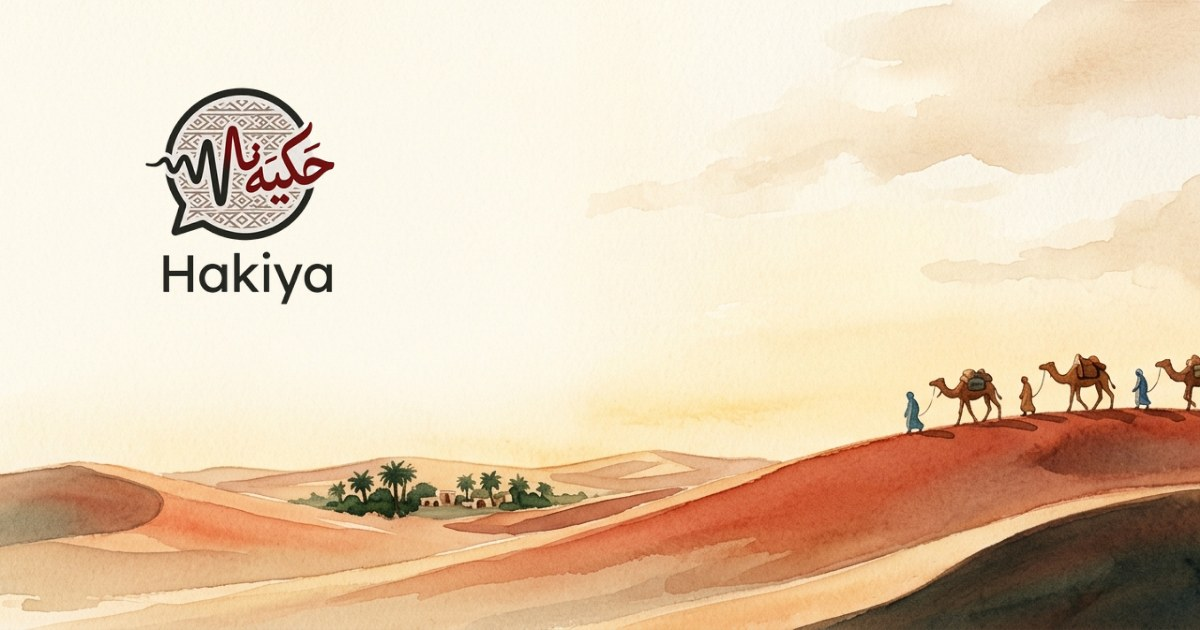
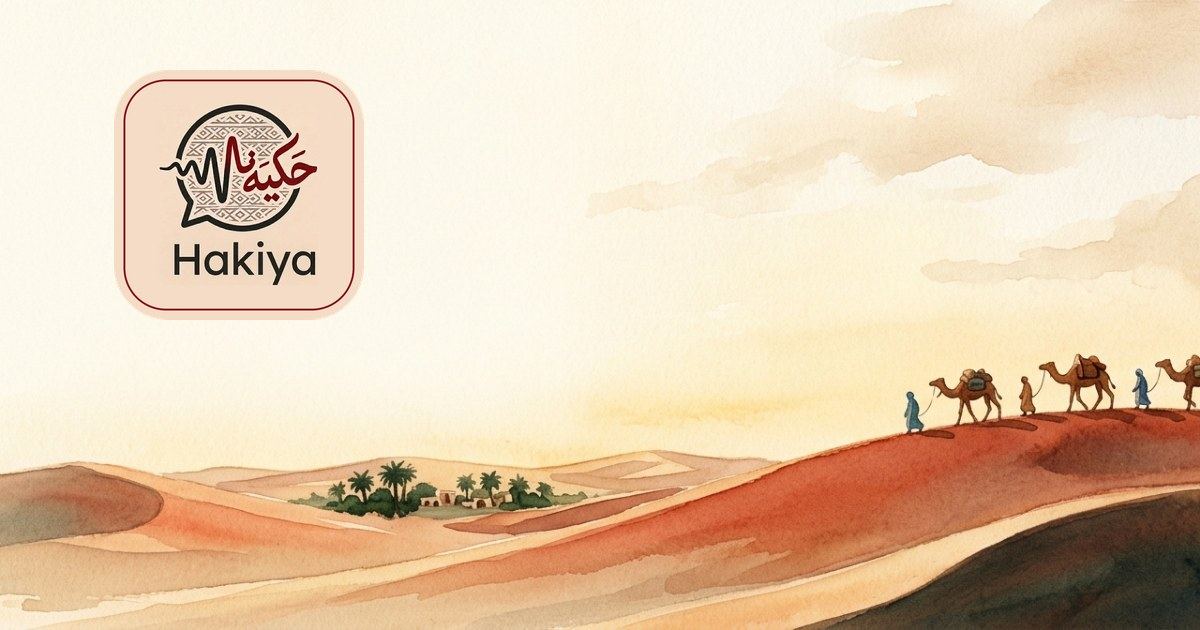
Put the lockup on the surfaces people actually look at
Three places were still drawing the old artwork, and they were the visible
ones. Each previous round wired the new logo somewhere real and left these
alone, which is why it kept looking like nothing had changed.

The favicon was the worst of it. One 256px file of the bare mark was
serving the browser tab, the apple-touch icon and both PWA manifest icons
at once — so on an installed phone, that file is the app icon.

It is now a proper set. The tab keeps the rounded plate with transparent
corners; everything else is opaque, because iOS composites an apple-touch
icon on black and Android crops a maskable one. The maskable icon gets a
19% inset, which is the one that matters: cropped to a circle without a
safe zone, Android would eat the plate's corners and its crimson rule.

The share card had the old lockup composited into its top left. The new
plate is opaque, so it covers it on the same optical centre rather than
needing the watercolour ground inpainted.

And the corner is the lockup and nothing else now. BrandMark's CSS plate,
its ring, its backdrop-blur and the wordmark set beside it all existed
because the artwork had neither a ground nor the English in it. It has
both, so all four went — a component that assembled a logo is now one that
shows one.

48px there rather than 40. The artwork is square and carries three things
where the old one carried one, and below roughly this size the English
inside it stops resolving.

Changed region(s): [[0.0925, 0.0905, 0.3083, 0.5127]]

diff --git a/src/components/shell/BrandMark.tsx b/src/components/shell/BrandMark.tsx
@@ -1,5 +1,5 @@
 import { cn } from "@/lib/utils";
-import { SaduMark } from "@/components/brand/SaduMark";
+import hakiyaLockup from "@/assets/hakiya-lockup.webp";
 
 /**
  * The Hakiya mark, back in the top-left corner where it belongs.
@@ -9,28 +9,21 @@ import { SaduMark } from "@/components/brand/SaduMark";
  * your face moved to the right — the feed's action rail, the far end of a
  * page header.
  *
- * The mark wears its Sadu frame here, in the `clear` variant. The plate is
- * already a light ground, so the sand-filled frame would be a ground sitting
- * on a ground; the open one takes the plate as its floor and contributes only
- * the woven band. Square rather than height-with-free-width, and still 32px,
- * because the plate's job of settling this lockup at 40px to match the emblem
- * opposite it is worth more than the few pixels the frame costs the mark.
+ * It is the supplied lockup now, and that file already contains everything
+ * this component used to assemble: the mark, the Arabic, the English, and a
+ * plate of its own. So the CSS plate went, and so did the wordmark set beside
+ * it — both existed only because the artwork had neither.
  *
- * It rides a quiet plate rather than sitting on the page. The mark has a
- * transparent ground and an open silhouette — a speech bubble with a weave
- * inside it — so on the chooser and a skill it landed directly on the sadu
- * border the page draws across its own top edge, and pattern showed through
- * pattern. The plate is the same idiom the feed already uses for its chrome,
- * and the token background means one rule covers both: near-black under the
- * video, near-sand on the pages. It also settles the height at 40px, matching
- * the emblem opposite it.
+ * 48px rather than the 40 the old lockup settled on. The artwork is square and
+ * carries three things instead of one, and below about this size the English
+ * inside it stops resolving. It is the smallest size at which this file is
+ * still the logo rather than a smudge of it.
  *
- * And it says the name. The weave inside the bubble is fine enough that at
- * 32px it resolves to grey noise — the artwork is doing detail the size cannot
- * spend — so the mark alone read as a smudge no matter which file it came
- * from. Set beside it, the wordmark is what carries recognition at this size,
- * and the mark is what makes the wordmark look like a brand rather than a
- * heading. The pair is announced once, as a single image named Hakiya.
+ * The plate it used to ride is gone with the rest. That plate existed because
+ * the mark had a transparent ground and an open silhouette, so on the chooser
+ * it landed directly on the sadu border the page draws across its top edge and
+ * pattern showed through pattern. The lockup has an opaque plate of its own, so
+ * the CSS one is now a second ground behind a first.
  *
  * Not a link. Home is two taps away in the dock and one swipe away on the
  * feed, and a second control pointing at the same place is the mistake the
@@ -38,22 +31,11 @@ import { SaduMark } from "@/components/brand/SaduMark";
  */
 export function BrandMark({ className }: { className?: string }) {
   return (
-    <span
-      role="img"
-      aria-label="Hakiya"
-      className={cn(
-        "inline-flex shrink-0 items-center gap-1.5 rounded-xl px-2 py-1",
-        "bg-background/85 ring-1 ring-border/60 backdrop-blur",
-        className,
-      )}
-    >
-      <SaduMark variant="clear" className="h-8 w-8 select-none" />
-      <span
-        aria-hidden
-        className="font-heading text-[15px] font-bold leading-none tracking-tight text-foreground"
-      >
-        Hakiya
-      </span>
-    </span>
+    <img
+      src={hakiyaLockup}
+      alt="Hakiya"
+      className={cn("h-12 w-12 shrink-0 select-none", className)}
+      draggable={false}
+    />
   );
 }

diff --git a/index.html b/index.html
@@ -39,7 +39,7 @@
     <meta name="twitter:image" content="https://hakiya.app/og-image.jpg" />
 
     <link rel="icon" type="image/png" href="/favicon.png" />
-    <link rel="apple-touch-icon" href="/favicon.png" />
+    <link rel="apple-touch-icon" href="/apple-touch-icon.png" />
     <link rel="manifest" href="/manifest.webmanifest" />
 
     <script type="application/ld+json">

diff --git a/docs/mark-framing.md b/docs/mark-framing.md
@@ -134,3 +134,45 @@ Wired where there is room to draw it at a size all three elements survive:
 mark-only `SaduMark` instead — as does `BrandMark` and the profile emblem. That
 split is the same one recorded in `docs/play-button-directions.md`: a full
 lockup where there is room, a reduced form where there is not.
+
+
+## The surfaces that were still showing the old artwork
+
+Three, and they were the visible ones. Recorded here because the pattern
+repeated: each round wired the new artwork somewhere real and left the place
+the user actually looks unchanged.
+
+- **`public/favicon.png`** — the browser tab, the apple-touch icon, and *both*
+  PWA manifest icons all pointed at one 256px file of the bare mark. On an
+  installed phone that file is the app icon.
+- **`public/og-image.jpg`** — the share card, with the old lockup composited
+  into its top left.
+- **`BrandMark`** — the corner of every main screen, still assembling a plate,
+  a mark and a wordmark by hand.
+
+All three now use `hakiya-lockup.webp`.
+
+### The icon set
+
+`favicon.png` keeps the rounded plate with transparent corners, which is what a
+browser tab wants. Everything else is opaque, because iOS composites an
+apple-touch icon on black and Android crops a maskable one:
+
+| File | Size | Inset | Purpose |
+|---|---|---|---|
+| `favicon.png` | 256 | — | tab |
+| `apple-touch-icon.png` | 180 | 6% | iOS home screen |
+| `icon-192.png`, `icon-512.png` | 192 / 512 | 5% | manifest `any` |
+| `icon-maskable-512.png` | 512 | 19% | manifest `maskable` |
+
+The maskable inset is the real one: Android crops that icon to a circle, so
+without a safe zone it would eat the plate's corners and its crimson rule.
+
+### The corner
+
+`BrandMark` is now the lockup and nothing else. Its CSS plate, its ring, its
+backdrop-blur and the wordmark set beside it all existed because the artwork
+had neither a ground nor the English in it. It has both, so they went.
+
+48px rather than 40. The artwork is square and carries three things instead of
+one, and below roughly this size the English inside it stops resolving.
